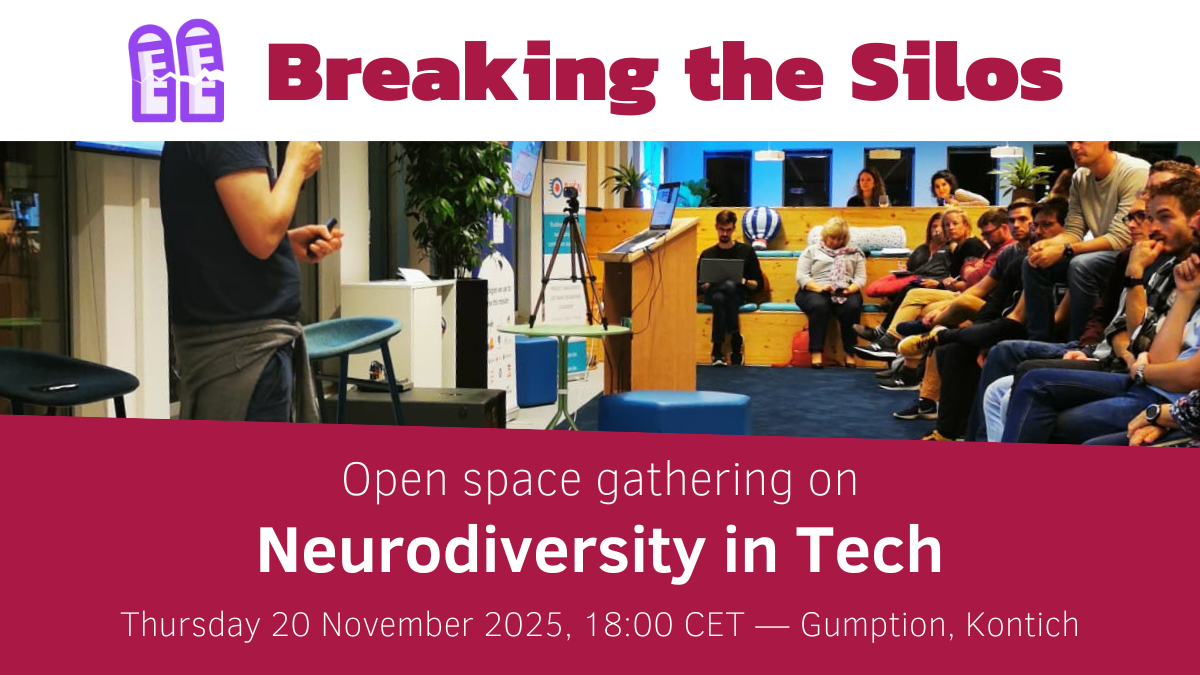
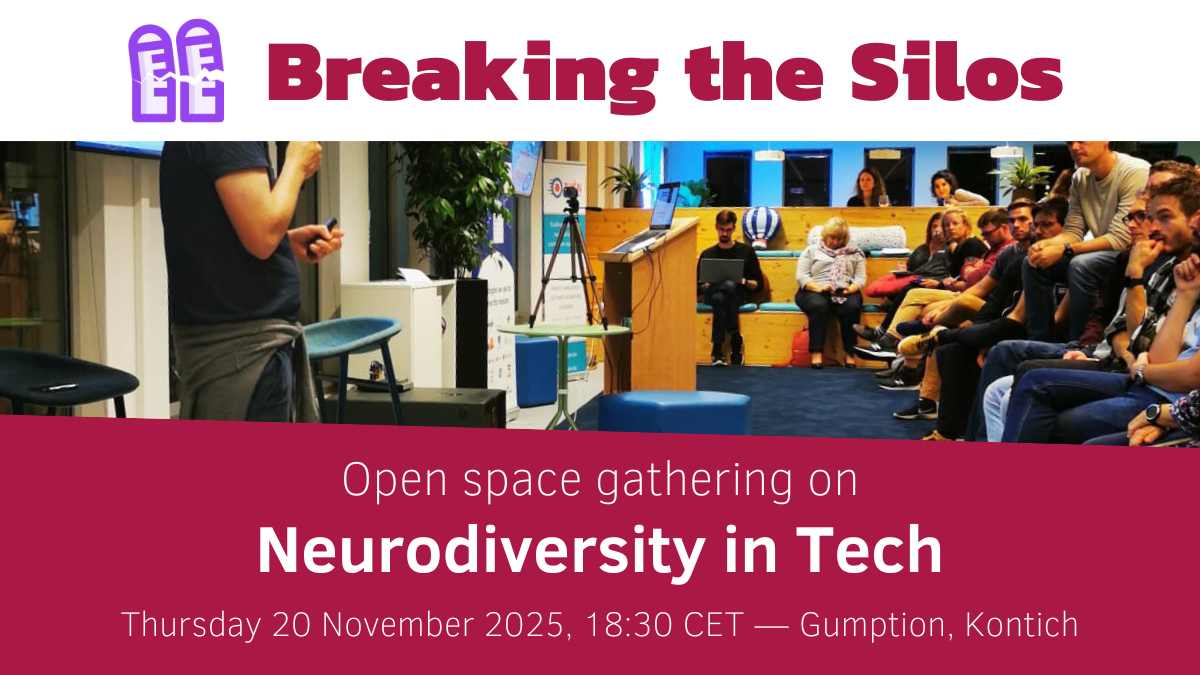
deploy: breakingthesilos/breakingthesilos.be@5024ba001383fdfb18114e532ee07c18ec060246

Changed region(s): [[0.0925, 0.9022, 0.4625, 0.9644], [0.6783, 0.9022, 0.8942, 0.9644], [0.4933, 0.9022, 0.6167, 0.9333]]

diff --git a/event/neurodiversity-open-space/index.html b/event/neurodiversity-open-space/index.html
@@ -25,7 +25,7 @@
 <meta property="og:type" content="article" />
 <meta property="og:url" content="https://breakingthesilos.be/event/neurodiversity-open-space/" /><meta property="og:image" content="https://breakingthesilos.be/event/neurodiversity-open-space/cover.png"/><meta property="article:section" content="event" />
 <meta property="article:published_time" content="2025-09-30T12:48:08+02:00" />
-<meta property="article:modified_time" content="2025-10-12T19:56:38+02:00" /><meta property="og:site_name" content="Breaking the Silos" />
+<meta property="article:modified_time" content="2025-10-14T12:58:59+02:00" /><meta property="og:site_name" content="Breaking the Silos" />
 
 </head>
   <body>
@@ -86,7 +86,7 @@
   <main class="my-10 md:my-16">
     <h1 class="text-3xl md:text-4xl text-center font-bold text-[#aa2046] mb-3">Breaking the Silos: Neurodiversity in Tech (open space)</h1>
     <div class="text-xl text-center mb-10">
-      Thursday 20 November 2025, 18:00 CET
+      Thursday 20 November 2025, 18:30 CET
       &mdash;
       Gumption, Kontich
     </div>
@@ -103,21 +103,21 @@
       <aside class="sm:float-right sm:w-1/2 sm:ml-10 mb-10 space-y-2">
         
           
-          <a href="/event/neurodiversity-open-space/cover_hu229855d6f7917b97698344592c71a127_565834_1200x675_resize_q95_h2_box_3.webp" target="_blank" title="Click to enlarge" class="block">
-            <img src="/event/neurodiversity-open-space/cover_hu229855d6f7917b97698344592c71a127_565834_1200x675_resize_q95_h2_box_3.webp" class="block" alt="A picture showing the event &#39;Breaking the Silos: Neurodiversity in Tech (open space)&#39; taking place.">
+          <a href="/event/neurodiversity-open-space/cover_hu7e482d95d89b2aed2c26f1909ddcb98a_567090_1200x675_resize_q95_h2_box_3.webp" target="_blank" title="Click to enlarge" class="block">
+            <img src="/event/neurodiversity-open-space/cover_hu7e482d95d89b2aed2c26f1909ddcb98a_567090_1200x675_resize_q95_h2_box_3.webp" class="block" alt="A picture showing the event &#39;Breaking the Silos: Neurodiversity in Tech (open space)&#39; taking place.">
           </a>
         
       </aside>
     
     <div class="prose md:prose-lg prose-stone prose-a:text-blue-700 max-w-none mb-10">
       <p>Breaking the Silos is hosting an event dedicated to Neurodiversity in Tech, continuing our mission to break siloed thinking and improve collaboration within Belgian organizations. This evening is a chance to collectively explore how we can build truly inclusive tech environments where neurodivergent individuals can contribute their full and unique potential.</p>
-<p><em>Breaking the Silos: Neurodiversity in Tech (open space)</em> is happening on <strong>Thursday 20 November 2025</strong> as of 18:00 CET in the <strong><a href="https://www.gumption.eu/">Gumption</a> offices</strong>, Satenrozen 10, 2550 Kontich. Food and drinks will be available.</p>
+<p><em>Breaking the Silos: Neurodiversity in Tech (open space)</em> is happening on <strong>Thursday 20 November 2025</strong> as of 18:30 CET in the <strong><a href="https://www.gumption.eu/">Gumption</a> offices</strong>, Satenrozen 10, 2550 Kontich. Food and drinks will be available.</p>
 <h2 id="a-collaborative-open-space-event">A collaborative open space event</h2>
 <p>Please note that this event will be in the dynamic <strong>open space format</strong>, not a traditional &ldquo;mini-conference&rdquo; with a fixed schedule. The content is created by you! Attendees are encouraged to propose topics such as inclusive hiring practices, building sensory-friendly workplaces, or the business case for neuroinclusion. The group will then collectively decide on the agenda and discussion groups. This format is designed for maximum collaboration and practical, shared learning.</p>
 <p>We aim to organise an event that is as inclusive as possible. If you have any questions, suggestions or additional requirements, please provide them in the sign up form. Also, note that we enforce <a href="https://breakingthesilos.be/code-of-conduct/">our code of conduct</a> throughout the event and on our social channels.</p>
 <h2 id="practicalities">Practicalities</h2>
 <ul>
-<li>Doors effectively open at 18:00, while the open space is set to <strong>start at 18:30</strong>.</li>
+<li>Doors effectively open at 18:30, while the open space is set to <strong>start at 19:00</strong>.</li>
 <li><strong>Parking</strong> is available near the venue, including car charging stations.</li>
 </ul>
 <p>We look forward to a stimulating and collaborative evening!</p>

diff --git a/event/seeing-problems-as-opportunities/index.html b/event/seeing-problems-as-opportunities/index.html
@@ -29,7 +29,7 @@ If you are really willing to challenge yourself and change your own mindset, thi
 <meta property="og:type" content="article" />
 <meta property="og:url" content="https://breakingthesilos.be/event/seeing-problems-as-opportunities/" /><meta property="og:image" content="https://breakingthesilos.be/event/seeing-problems-as-opportunities/cover.jpg"/><meta property="article:section" content="event" />
 <meta property="article:published_time" content="2023-09-17T21:54:30+02:00" />
-<meta property="article:modified_time" content="2025-10-12T19:56:38+02:00" /><meta property="og:site_name" content="Breaking the Silos" />
+<meta property="article:modified_time" content="2025-10-14T12:58:59+02:00" /><meta property="og:site_name" content="Breaking the Silos" />
 
 </head>
   <body>

diff --git a/event/hybrid-remote-work/index.html b/event/hybrid-remote-work/index.html
@@ -26,7 +26,7 @@ In the second Breaking the Silos event, we’re presenting four cases of Belgian
 <meta property="og:type" content="article" />
 <meta property="og:url" content="https://breakingthesilos.be/event/hybrid-remote-work/" /><meta property="og:image" content="https://breakingthesilos.be/event/hybrid-remote-work/cover.jpg"/><meta property="article:section" content="event" />
 <meta property="article:published_time" content="2022-10-08T16:11:42+02:00" />
-<meta property="article:modified_time" content="2025-10-12T19:56:38+02:00" /><meta property="og:site_name" content="Breaking the Silos" />
+<meta property="article:modified_time" content="2025-10-14T12:58:59+02:00" /><meta property="og:site_name" content="Breaking the Silos" />
 
 </head>
   <body>

diff --git a/event/psychological-safety/index.html b/event/psychological-safety/index.html
@@ -25,7 +25,7 @@
 <meta property="og:type" content="article" />
 <meta property="og:url" content="https://breakingthesilos.be/event/psychological-safety/" /><meta property="og:image" content="https://breakingthesilos.be/event/psychological-safety/cover.jpg"/><meta property="article:section" content="event" />
 <meta property="article:published_time" content="2023-05-01T20:50:39+02:00" />
-<meta property="article:modified_time" content="2025-10-12T19:56:38+02:00" /><meta property="og:site_name" content="Breaking the Silos" />
+<meta property="article:modified_time" content="2025-10-14T12:58:59+02:00" /><meta property="og:site_name" content="Breaking the Silos" />
 
 </head>
   <body>

diff --git a/event/neurodiversity/index.html b/event/neurodiversity/index.html
@@ -25,7 +25,7 @@
 <meta property="og:type" content="article" />
 <meta property="og:url" content="https://breakingthesilos.be/event/neurodiversity/" /><meta property="og:image" content="https://breakingthesilos.be/event/neurodiversity/cover.jpg"/><meta property="article:section" content="event" />
 <meta property="article:published_time" content="2022-10-08T15:24:52+02:00" />
-<meta property="article:modified_time" content="2025-10-12T19:56:38+02:00" /><meta property="og:site_name" content="Breaking the Silos" />
+<meta property="article:modified_time" content="2025-10-14T12:58:59+02:00" /><meta property="og:site_name" content="Breaking the Silos" />
 
 </head>
   <body>

diff --git a/event/inclusion/index.html b/event/inclusion/index.html
@@ -25,7 +25,7 @@
 <meta property="og:type" content="article" />
 <meta property="og:url" content="https://breakingthesilos.be/event/inclusion/" /><meta property="og:image" content="https://breakingthesilos.be/event/inclusion/cover.jpg"/><meta property="article:section" content="event" />
 <meta property="article:published_time" content="2023-01-11T17:06:24+01:00" />
-<meta property="article:modified_time" content="2025-10-12T19:56:38+02:00" /><meta property="og:site_name" content="Breaking the Silos" />
+<meta property="article:modified_time" content="2025-10-14T12:58:59+02:00" /><meta property="og:site_name" content="Breaking the Silos" />
 
 </head>
   <body>

diff --git a/code-of-conduct/index.html b/code-of-conduct/index.html
@@ -21,7 +21,7 @@
 <meta property="og:type" content="article" />
 <meta property="og:url" content="https://breakingthesilos.be/code-of-conduct/" /><meta property="og:image" content="https://breakingthesilos.be/cover.png"/><meta property="article:section" content="" />
 
-<meta property="article:modified_time" content="2025-10-12T19:56:38+02:00" /><meta property="og:site_name" content="Breaking the Silos" />
+<meta property="article:modified_time" content="2025-10-14T12:58:59+02:00" /><meta property="og:site_name" content="Breaking the Silos" />
 
 </head>
   <body>

diff --git a/community/index.html b/community/index.html
@@ -21,7 +21,7 @@
 <meta property="og:type" content="article" />
 <meta property="og:url" content="https://breakingthesilos.be/community/" /><meta property="og:image" content="https://breakingthesilos.be/cover.png"/><meta property="article:section" content="" />
 
-<meta property="article:modified_time" content="2025-10-12T19:56:38+02:00" /><meta property="og:site_name" content="Breaking the Silos" />
+<meta property="article:modified_time" content="2025-10-14T12:58:59+02:00" /><meta property="og:site_name" content="Breaking the Silos" />
 
 </head>
   <body>

diff --git a/about/index.html b/about/index.html
@@ -21,7 +21,7 @@
 <meta property="og:type" content="article" />
 <meta property="og:url" content="https://breakingthesilos.be/about/" /><meta property="og:image" content="https://breakingthesilos.be/cover.png"/><meta property="article:section" content="" />
 
-<meta property="article:modified_time" content="2025-10-12T19:56:38+02:00" /><meta property="og:site_name" content="Breaking the Silos" />
+<meta property="article:modified_time" content="2025-10-14T12:58:59+02:00" /><meta property="og:site_name" content="Breaking the Silos" />
 
 </head>
   <body>

diff --git a/index.html b/index.html
@@ -110,7 +110,7 @@
     </div>
     <div class="flex flex-wrap justify-between gap-5">
       <div class="">
-        Thursday 20 November 2025, 18:00 CET
+        Thursday 20 November 2025, 18:30 CET
         &mdash;
         Location: Gumption, Kontich
       </div>
